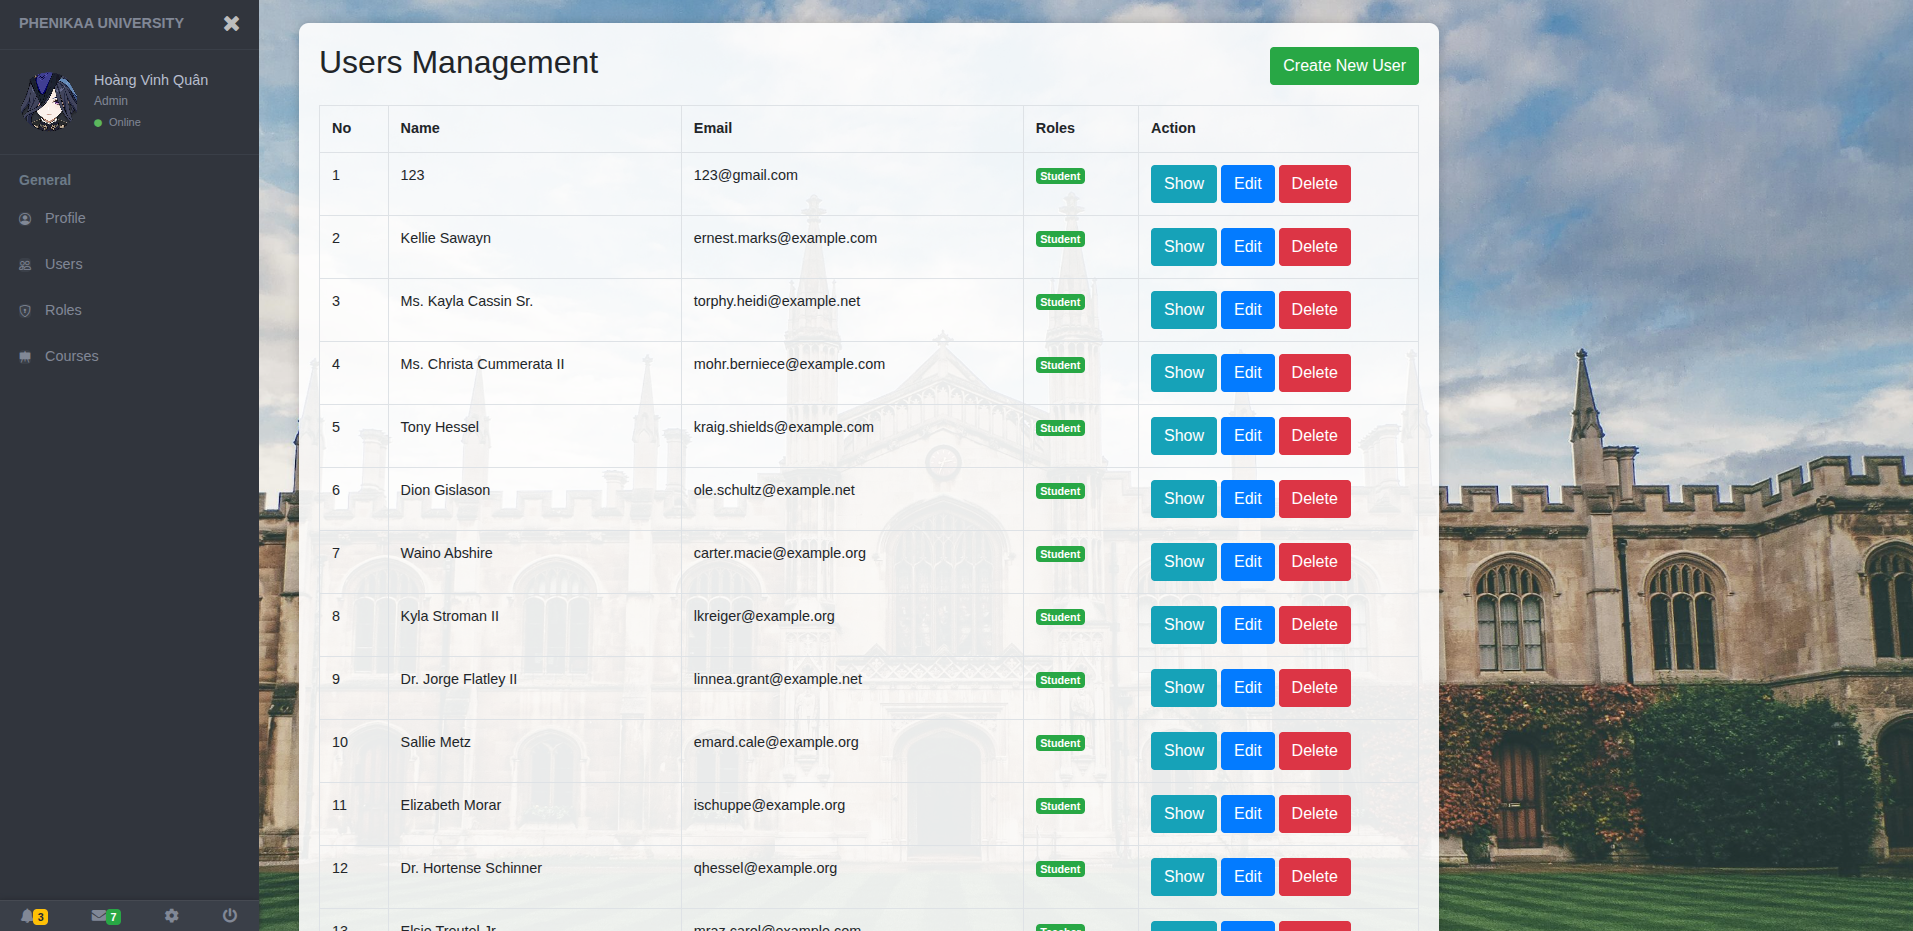
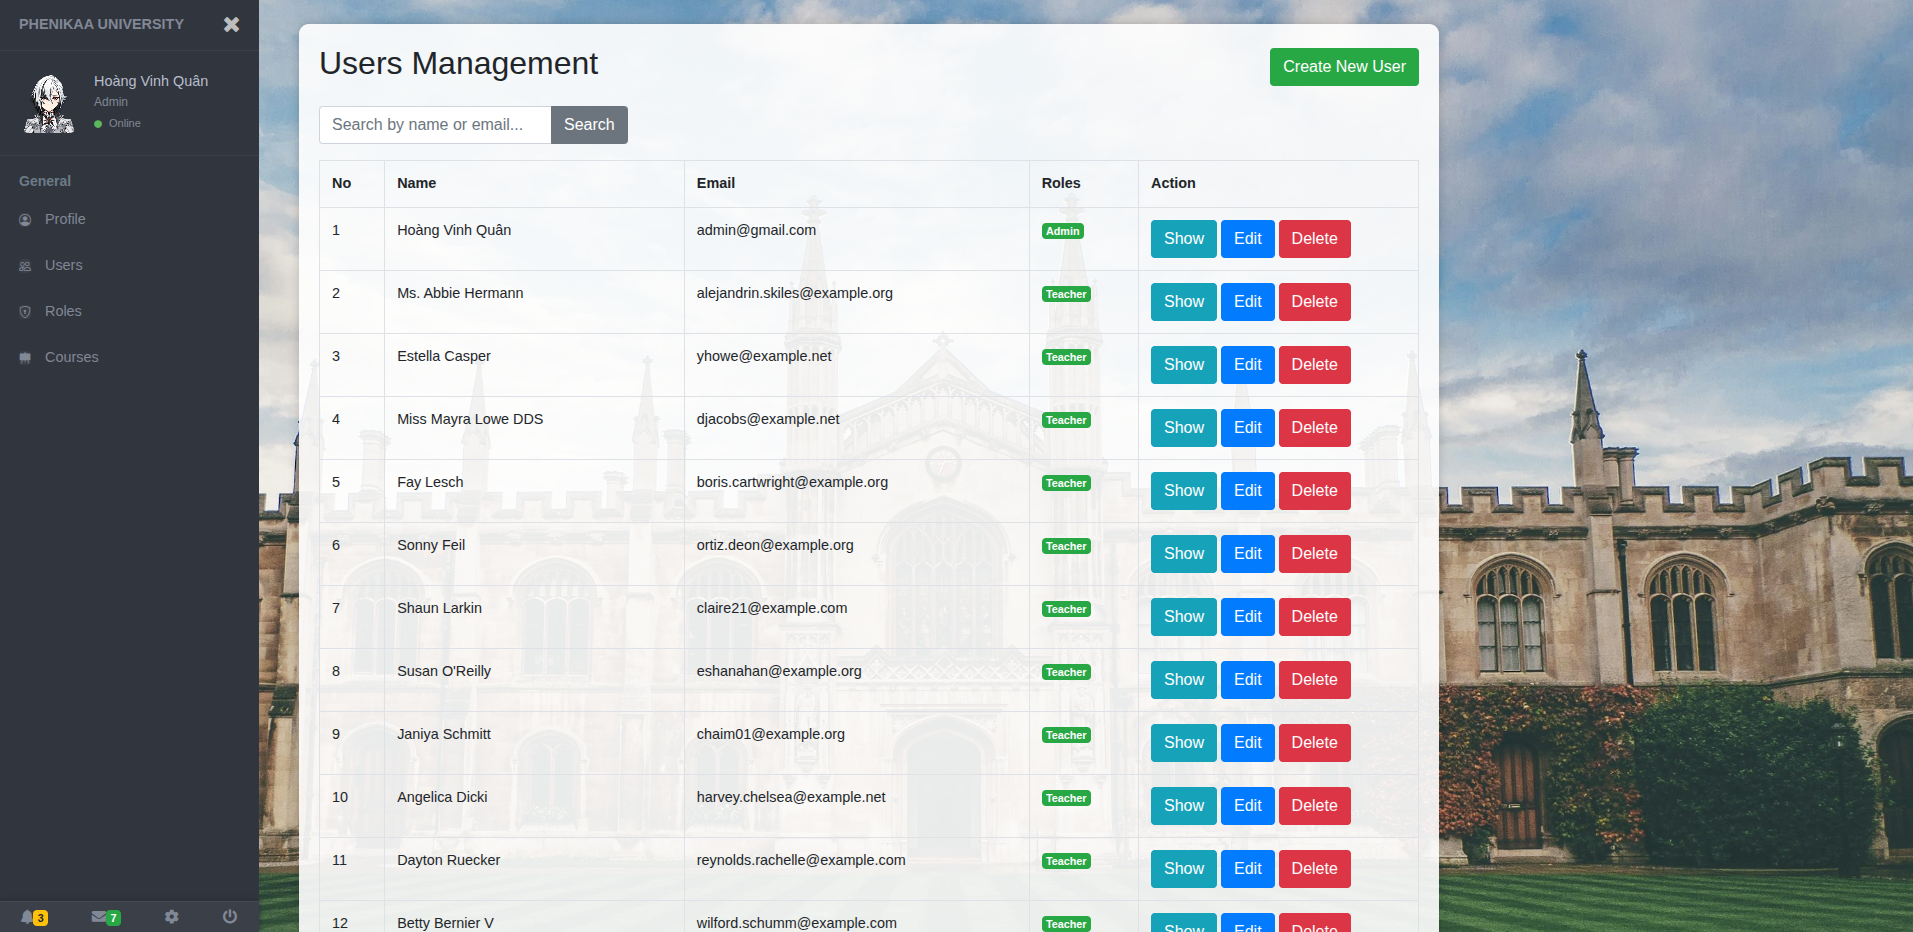
update i4 user, search bar and README

diff --git a/app/Http/Controllers/UserController.php b/app/Http/Controllers/UserController.php
@@ -26,12 +26,21 @@ class UserController extends Controller
      *
      * @return \Illuminate\Http\Response
      */
-    public function index(Request $request): View
+    public function index(Request $request)
     {
-        $data = User::latest()->get();
+        $search = $request->input('search');
 
-        return view('users.index',compact('data'))
-            ->with('i', ($request->input('page', 1) - 1) * 5);
+        $users = User::query()
+            ->when($search, function ($query, $search) {
+                return $query->where('name', 'like', "%$search%")
+                            ->orWhere('email', 'like', "%$search%");
+            })
+            ->get();
+
+        return view('users.index', [
+            'data' => $users,
+            'i' => 0
+        ]);
     }
 
     /**
@@ -78,10 +87,18 @@ class UserController extends Controller
      * @return \Illuminate\Http\Response
      */
 
-    public function show($id): View
+    public function show($id)
     {
-        $user = User::find($id);
-        return view('users.show',compact('user'));
+        $user = User::findOrFail($id);
+        $courses = [];
+
+        if ($user->hasRole('Teacher')) {
+            $courses = $user->taughtCourses; 
+        } elseif ($user->hasRole('Student')) {
+            $courses = $user->enrolledCourses; 
+        }
+
+        return view('users.show', compact('user', 'courses'));
     }
 
     /**

diff --git a/resources/views/users/show.blade.php b/resources/views/users/show.blade.php
@@ -10,7 +10,6 @@
 </div>
 
 <div class="row">
-    {{-- Ảnh đại diện --}}
     <div class="col-md-3 mb-3 text-center">
         <img src="{{ $user->avatar ? asset('storage/' . $user->avatar) : asset('images/default.jpg') }}" 
              alt="User Avatar" class="img-thumbnail rounded-circle" style="width: 150px; height: 150px;">
@@ -37,5 +36,36 @@
         </div>
     </div>
 </div>
+
+@if ($user->hasRole('Teacher'))
+    <div class="mt-4">
+        <h4>Teaching Courses</h4>
+        @if (empty($courses))
+            <p>No courses assigned.</p>
+        @else
+            <ul>
+                @foreach ($courses as $course)
+                    <li>{{ $course->name }} ({{ $course->code }})</li>
+                @endforeach
+            </ul>
+        @endif
+    </div>
+@endif
+
+@if ($user->hasRole('Student'))
+    <div class="mt-4">
+        <h4>Enrolled Courses</h4>
+        @if (empty($courses))
+            <p>No courses enrolled.</p>
+        @else
+            <ul>
+                @foreach ($courses as $course)
+                    <li>{{ $course->name }} ({{ $course->code }})</li>
+                @endforeach
+            </ul>
+        @endif
+    </div>
+@endif
+
 
 @endsection

diff --git a/app/Http/Controllers/Admin/CourseController.php b/app/Http/Controllers/Admin/CourseController.php
@@ -9,9 +9,19 @@ use Illuminate\Http\Request;
 
 class CourseController extends Controller
 {
-    public function index()
+    public function index(Request $request)
     {
-        $courses = Course::with('teacher')->get();
+        $query = Course::with('teacher');
+
+        if ($request->has('search')) {
+            $search = $request->input('search');
+            $query->where(function ($q) use ($search) {
+                $q->where('name', 'like', "%$search%")
+                ->orWhere('code', 'like', "%$search%");
+            });
+        }
+
+        $courses = $query->get();
         return view('admin.courses.index', compact('courses'));
     }
 

diff --git a/resources/views/users/index.blade.php b/resources/views/users/index.blade.php
@@ -15,6 +15,19 @@
     </div>
 @endif
 
+<div class="row mb-3">
+    <div class="col-md-6">
+        <form action="{{ route('users.index') }}" method="GET" class="form-inline">
+            <div class="input-group">
+                <input type="text" name="search" class="form-control" placeholder="Search by name or email..." value="{{ request('search') }}">
+                <div class="input-group-append">
+                    <button class="btn btn-secondary" type="submit">Search</button>
+                </div>
+            </div>
+        </form>
+    </div>
+</div>
+
 <table class="table table-bordered">
     <tr>
         <th>No</th>

diff --git a/resources/views/admin/courses/index.blade.php b/resources/views/admin/courses/index.blade.php
@@ -10,6 +10,11 @@
 
     <a href="{{ route('admin.courses.create') }}" class="btn btn-success mb-3">Create New Course</a>
 
+    <form method="GET" action="{{ route('admin.courses.index') }}" class="form-inline mb-3">
+        <input type="text" name="search" class="form-control mr-2" placeholder="Search by name or code" value="{{ request('search') }}">
+        <button type="submit" class="btn btn-outline-primary">Search</button>
+    </form>
+
     <table class="table table-bordered">
         <thead class="thead-light">
             <tr>

diff --git a/README.md b/README.md
@@ -112,6 +112,18 @@ A web application built with **Laravel** for managing students, courses, and gra
 
 ---
 
+## 👤 Default Roles and Login Info
+
+### 🛡 Admin Account (seeded)
+
+| Email               | Password   |
+| ------------------- | ---------- |
+| `admin@gmail.com` | `123456` |
+
+> You can log in with this account to manage roles, users, and view full system functionality.
+
+---
+
 ## 📷 Screenshots
 
 <p align="center">
